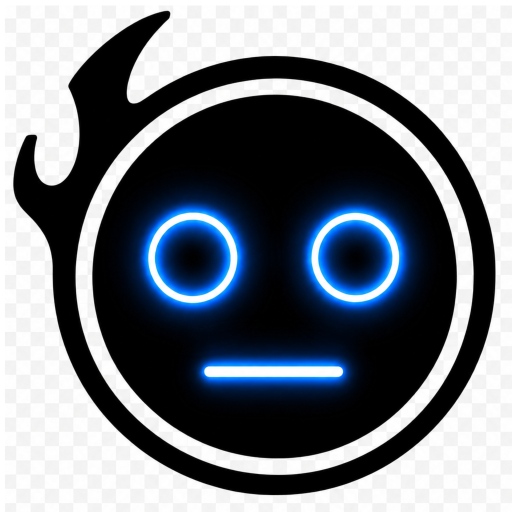
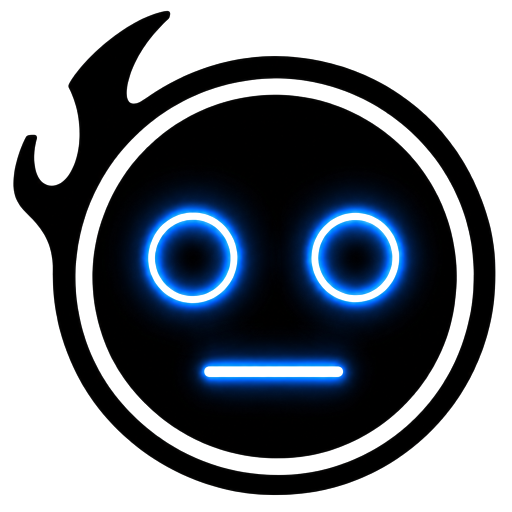
Feature/UI improvements (#140)
* UI polishing

* More UI Updates for Chat area

* updated icon image and chat input area

diff --git a/App.Shared/wwwroot/css/app.css b/App.Shared/wwwroot/css/app.css
@@ -216,6 +216,9 @@ a:hover {
     --cf-error-fg:     #c00;
     --cf-border:       #e8e8e8;
     --cf-bg-surface:   #ffffff;
+    /* Legacy alias — several panels use var(--cf-bg, #fff). Tie it to the
+       per-theme surface token so dark themes (Slate/Dark) don't get a white box. */
+    --cf-bg:           var(--cf-bg-surface, #ffffff);
     --cf-bg-subtle:    #f5f5f5;
     --cf-bg-muted:     var(--color-bg-muted);
     --cf-info-box-bg:  var(--color-bg-muted);
@@ -4529,7 +4532,7 @@ body .chat-container,
     scroll-behavior: smooth !important;
 }
 
-/* Input bar at bottom */
+/* Input bar at bottom — same max width as the centered new-chat composer. */
 body .input-area,
 .input-area {
     background: var(--workspace-canvas, var(--color-chat-bg)) !important;
@@ -4537,6 +4540,9 @@ body .input-area,
     box-shadow: none !important;
     padding: 10px 24px 14px !important;
     width: 100% !important;
+    max-width: var(--chat-composer-max, 720px) !important;
+    margin-left: auto !important;
+    margin-right: auto !important;
     box-sizing: border-box !important;
 }
 
@@ -4775,6 +4781,8 @@ body .message-bot,
     --chat-max-width: 840px;
     --chat-bubble-max: 76%;
     --chat-indent: 6%;
+    /* Composer width — matches the chat max width. */
+    --chat-composer-max: var(--chat-max-width, 1080px);
 }
 
 /* Message bubbles: capped width + indented outer edge (staggered layout). */
@@ -4824,15 +4832,8 @@ body .message-bot,
     color: var(--color-text);
 }
 
-/* Center the composer while the chat is empty. The later `.input-area` rule sets
-   `width: 100% !important`, so cap the width and center it explicitly here. */
-.chat-page .chat-column.chat-empty .input-area {
-    width: min(var(--chat-max-width, 1080px), 720px) !important;
-    max-width: min(var(--chat-max-width, 1080px), 720px) !important;
-    margin-left: auto !important;
-    margin-right: auto !important;
-    align-self: center !important;
-}
+/* Composer width/centering is handled by the shared .input-area rule above
+   (--chat-composer-max), so it matches in both the empty and docked states. */
 
 @media (max-width: 640.98px) {
     .chat-page .message-me,
@@ -4853,6 +4854,20 @@ body .message-bot,
 
 .chat-page .input-container:focus-within {
     border-color: var(--color-accent) !important;
+}
+
+/* Speech actions (mic, voice mode, auto-speak) pinned to the right edge,
+   immediately before the send button. */
+.input-actions-right {
+    display: flex;
+    align-items: center;
+    gap: 4px;
+    margin-left: auto;
+    flex-shrink: 0;
+}
+
+.chat-page .input-actions-right + .send-btn {
+    margin-left: 6px !important;
 }
 
 /* Narrow phones: slightly tighter toolbar (stacked layout is already the default everywhere) */
